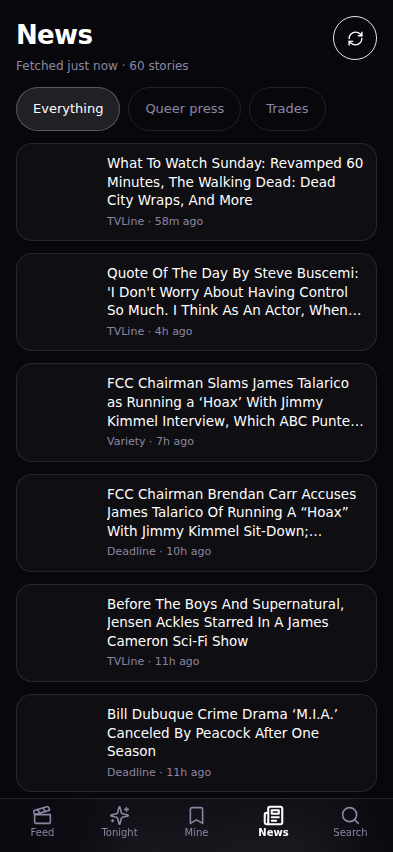
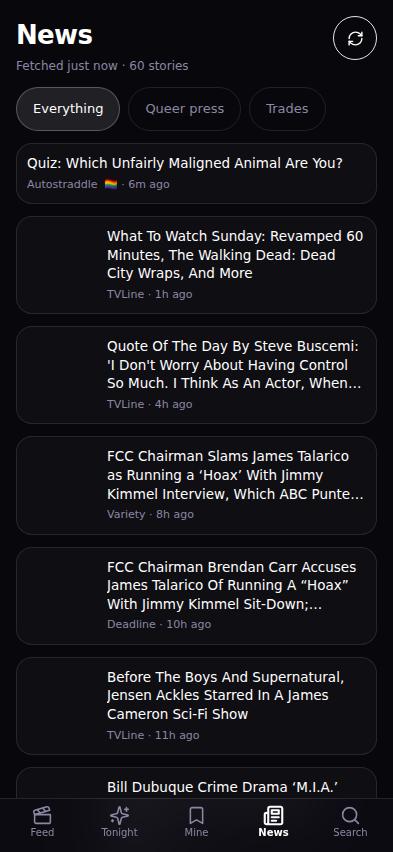
Fix three touch bugs that only a real pointer gesture could find
Added scripts/test-interactions.mjs, which drives save, the episode tracker,
sheet drag-to-dismiss and not-for-me with real pointer events on a touch
context. It failed immediately, three times over:

  - Drag-to-dismiss never dismissed. onClose() was being called inside a
    setState updater, which is a side effect in the render phase: React is
    free to skip it or run it twice, and it skipped it. The drag distance now
    lives in a ref that pointerup reads directly.

  - The drag also died as soon as the finger left the 40px grab handle,
    because the handle never captured the pointer. It does now.

  - Dismissing then re-opened the sheet. The browser dispatches a click after
    pointerup, and by the time it fires the sheet has unmounted, so it lands
    on the feed card's open-details button underneath. That one click is now
    swallowed at the capture phase.

  - The card's caption block is full-width at the same z-index as the action
    rail and paints over its lower buttons, so "Not for me" could not be
    tapped at all. Nothing in that block is interactive, so it is now
    transparent to the pointer and the rail sits above it.

Current suite: interactions all pass, service worker matches its four
specified rules, 11/11 curated annotations resolve to the right show, snap
lands exactly on card boundaries, 0 tap targets under 44pt, 16px inputs,
no horizontal overflow.

Claude-Session: https://claude.ai/code/session_01RUriRr12KnVmZNFYT9P7wH

Changed region(s): [[0.0611, 0.1831, 0.916, 0.946]]

diff --git a/catalog/src/components/Sheet.jsx b/catalog/src/components/Sheet.jsx
@@ -12,11 +12,15 @@ import { useEffect, useRef, useState, useCallback } from 'react';
  *  • A downward drag should only dismiss when the content is already scrolled
  *    to the top. Otherwise every attempt to scroll up throws the sheet away.
  */
+/** How far down you have to pull before letting go actually dismisses. */
+const DISMISS_PX = 110;
+
 export default function Sheet({ open, onClose, children, title, peek = 0.92 }) {
-  const [dragY, setDragY] = useState(0);
+  const [dragYState, setDragYState] = useState(0);
   const [dragging, setDragging] = useState(false);
   const scrollRef = useRef(null);
   const start = useRef(null);
+  const dragY = useRef(0);
 
   // Lock the page behind the sheet without losing the scroll position.
   useEffect(() => {
@@ -31,7 +35,7 @@ export default function Sheet({ open, onClose, children, title, peek = 0.92 }) {
     };
   }, [open]);
 
-  useEffect(() => { if (open) setDragY(0); }, [open]);
+  useEffect(() => { if (open) { dragY.current = 0; setDragYState(0); } }, [open]);
 
   useEffect(() => {
     if (!open) return;
@@ -44,6 +48,9 @@ export default function Sheet({ open, onClose, children, title, peek = 0.92 }) {
     // Only start a dismiss-drag from the top of the scroll pane.
     const atTop = (scrollRef.current?.scrollTop ?? 0) <= 0;
     start.current = { y: e.clientY, atTop, id: e.pointerId };
+    // Without capture the drag dies the moment the finger leaves the handle,
+    // which on a 40px-tall grab area is almost immediately.
+    e.currentTarget.setPointerCapture?.(e.pointerId);
     setDragging(true);
   }, []);
 
@@ -51,20 +58,36 @@ export default function Sheet({ open, onClose, children, title, peek = 0.92 }) {
     const s = start.current;
     if (!s || s.id !== e.pointerId) return;
     const dy = e.clientY - s.y;
-    if (dy <= 0) { setDragY(0); return; }
+    if (dy <= 0) { dragY.current = 0; setDragYState(0); return; }
     const atTop = s.atTop || (scrollRef.current?.scrollTop ?? 0) <= 0;
     if (!atTop) return;
     // Resistance, so it feels attached rather than loose.
-    setDragY(dy < 0 ? 0 : dy ** 0.92);
+    const v = dy ** 0.92;
+    dragY.current = v;          // the ref is what pointerup reads
+    setDragYState(v);
   }, []);
 
-  const onPointerUp = useCallback(() => {
+  const onPointerUp = useCallback(e => {
+    const s = start.current;
+    e?.currentTarget?.releasePointerCapture?.(s?.id ?? e.pointerId);
     setDragging(false);
     start.current = null;
-    setDragY(y => {
-      if (y > 110) { onClose?.(); return 0; }
-      return 0;
-    });
+    // Read the distance from the ref, not from a setState updater. Calling
+    // onClose() inside an updater is a side effect in the render phase: React
+    // may skip it or run it twice, and the sheet simply never closed.
+    const travelled = dragY.current;
+    dragY.current = 0;
+    setDragYState(0);
+    if (travelled > DISMISS_PX) {
+      // The browser dispatches a click after pointerup. By the time it fires
+      // the sheet has unmounted, so it lands on whatever is underneath — which
+      // on the feed is the card's own open-details button, and the sheet you
+      // just threw away immediately comes back. Swallow that one click.
+      const swallow = ev => { ev.stopPropagation(); ev.preventDefault(); };
+      window.addEventListener('click', swallow, { capture: true, once: true });
+      setTimeout(() => window.removeEventListener('click', swallow, { capture: true }), 400);
+      onClose?.();
+    }
   }, [onClose]);
 
   if (!open) return null;
@@ -73,7 +96,7 @@ export default function Sheet({ open, onClose, children, title, peek = 0.92 }) {
     <div className="fixed inset-0 z-50" role="dialog" aria-modal="true" aria-label={title}>
       <button
         className="absolute inset-0 bg-black/60 backdrop-blur-[2px] animate-fade-in"
-        style={{ opacity: Math.max(0, 1 - dragY / 320) }}
+        style={{ opacity: Math.max(0, 1 - dragYState / 320) }}
         onClick={onClose}
         aria-label="Close"
       />
@@ -82,7 +105,7 @@ export default function Sheet({ open, onClose, children, title, peek = 0.92 }) {
                    border-t border-white/10 bg-ink-900 shadow-[0_-20px_60px_rgba(0,0,0,.6)]"
         style={{
           height: `calc(var(--screen) * ${peek})`,
-          transform: `translateY(${dragY}px)`,
+          transform: `translateY(${dragYState}px)`,
           transition: dragging ? 'none' : 'transform .28s cubic-bezier(.2,.9,.3,1)',
         }}
       >

diff --git a/catalog/src/components/FeedCard.jsx b/catalog/src/components/FeedCard.jsx
@@ -68,7 +68,7 @@ function FeedCard({
 
       {/* Right-hand action rail. Down at thumb height, 44pt each, never
           stacked tightly over the face of the artwork. */}
-      <div className="absolute right-3 z-20 flex flex-col items-center gap-2"
+      <div className="absolute right-3 z-30 flex flex-col items-center gap-2"
            style={{ bottom: 'calc(env(safe-area-inset-bottom) + 8.5rem)' }}>
         <RailButton
           onClick={() => onSave(show)}
@@ -85,7 +85,10 @@ function FeedCard({
         </RailButton>
       </div>
 
-      <div className="absolute inset-x-0 bottom-0 z-20 px-safe pb-safe">
+      {/* Full-width and the same height as the text it holds, so it sits over
+          the action rail's lower buttons. It must not eat their taps: nothing
+          in here is interactive, so it stays transparent to the pointer. */}
+      <div className="pointer-events-none absolute inset-x-0 bottom-0 z-20 px-safe pb-safe">
         <div className="mb-[4.75rem] mr-16 animate-rise">
           <div className="mb-2 flex flex-wrap items-center gap-1.5">
             <StatusBadge show={show} tmdbExtra={enriched?.extra} ending={enriched?.ending} />
